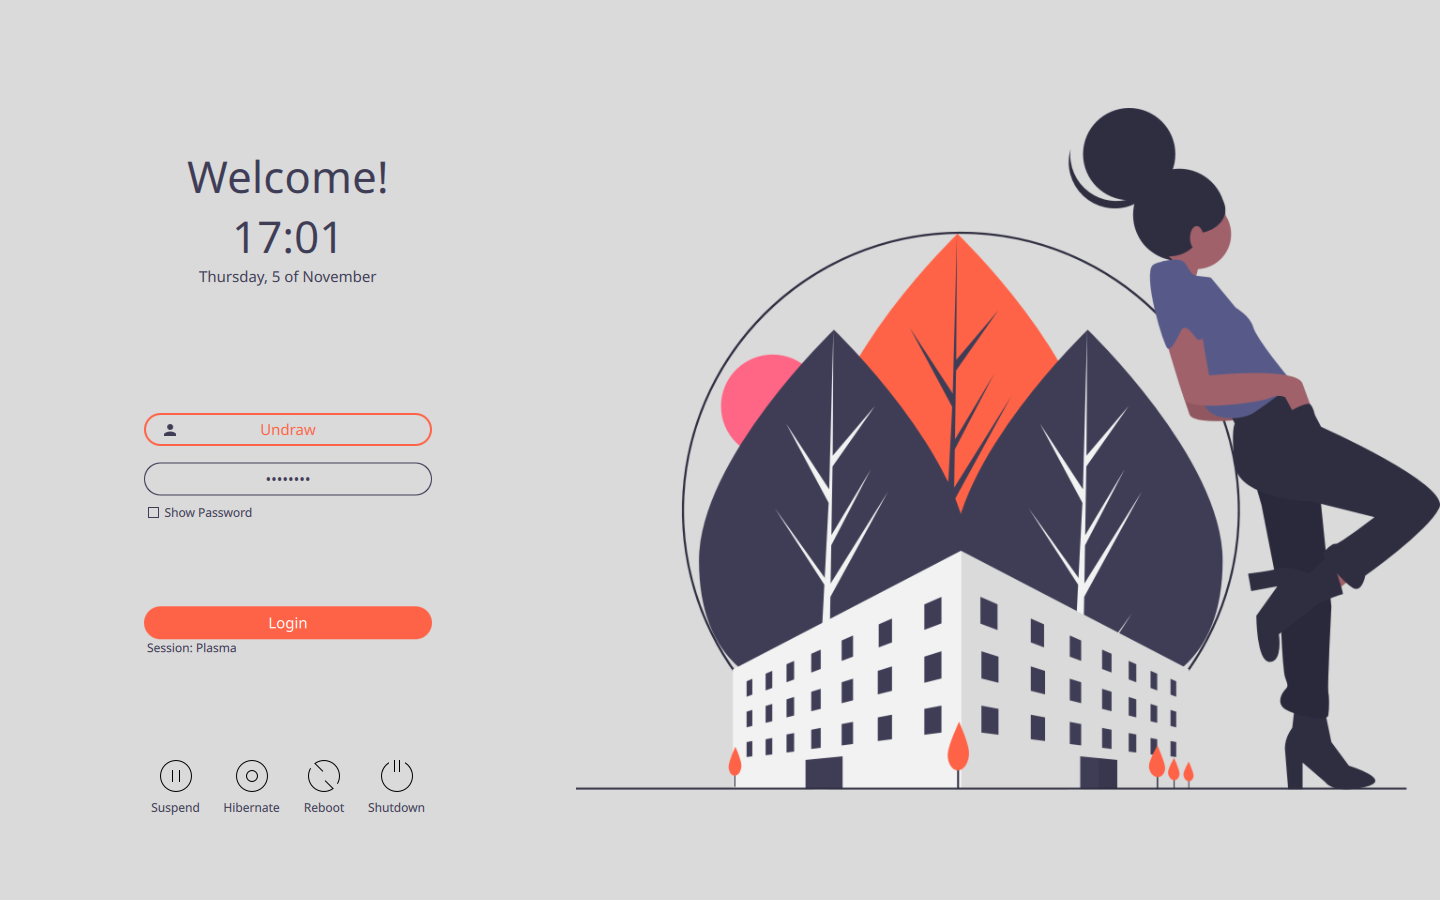
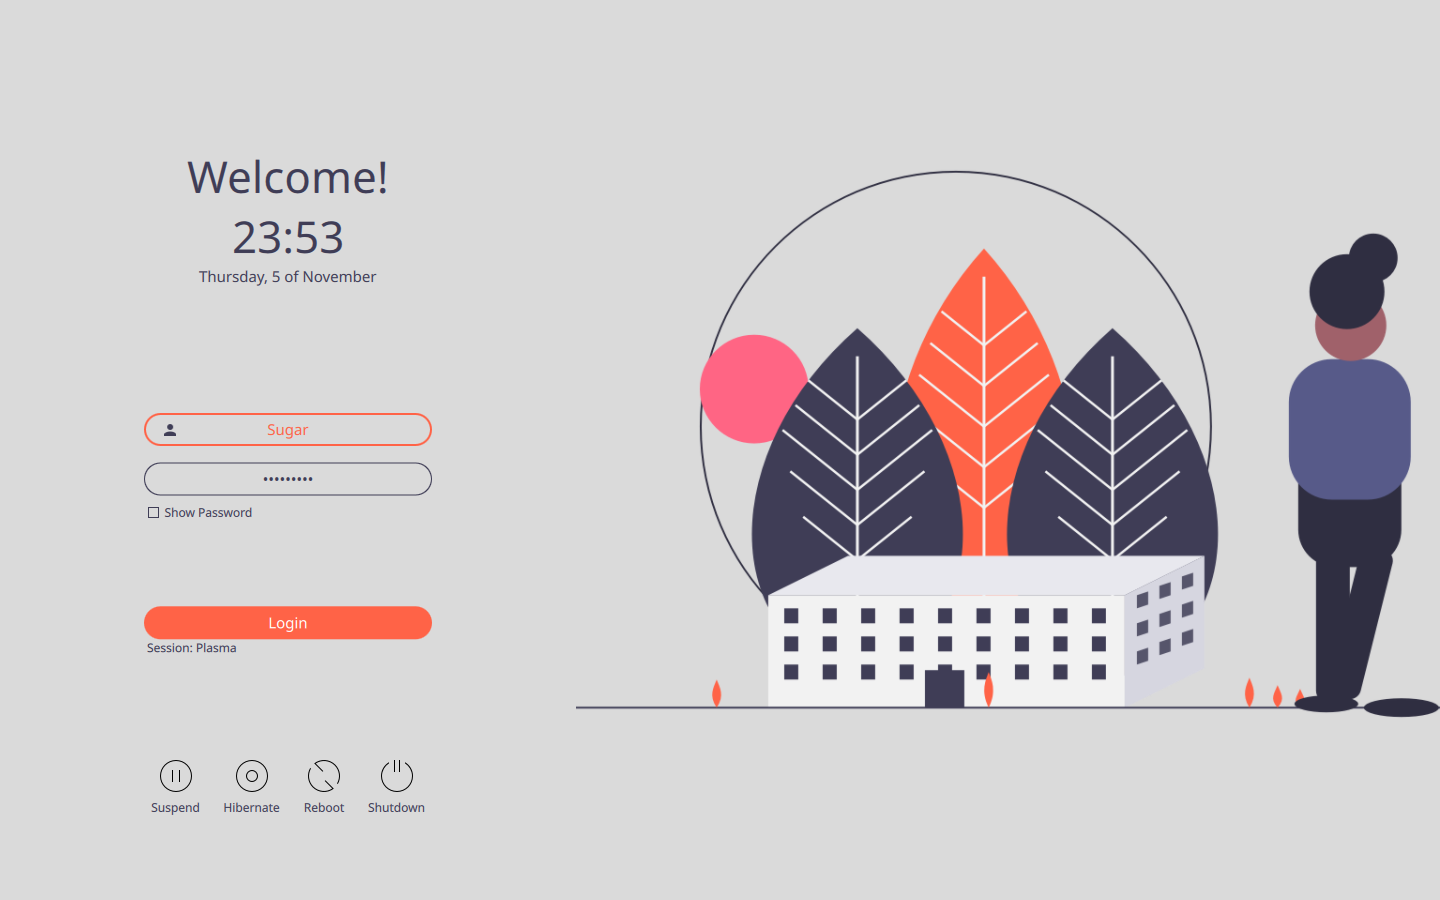
fix(assets): replace unclear-license assets with free ones
fix(assets): swap the background photographs for public domain and CC0 photos
- fix: Replace Colorful Dune, Dune, Desert and Mountain with Wikimedia Commons photos
- fix: Replace Rocks.jpg with a generated texture

fix(assets): replace third-party icon and illustration with original work
- fix: Redraw Assets/User.svgz
- fix: Replace Backgrounds/Undraw.svg with Backgrounds/Illustration.svg
- fix: Update the Illustration.svg references in README, theme.conf and presets

chore(credits): list the source and license of every asset
- chore: Rewrite CREDITS and add the changelog entry

chore(previews): re-render all eleven previews with the new assets
- chore: Show the neutral user name Sugar in the illustration previews

diff --git a/README.md b/README.md
@@ -68,13 +68,13 @@ The sugar series is **extremely customizable** by editing its included `theme.co
 And as if that wouldn't still be enough you can translate every single button and label because SDDM is still lacking behind with localization and clearly [needs your help](https://github.com/sddm/sddm/wiki/Localization)!
 
 **Background="Backgrounds/Mountain.jpg"**  
-*Path relative to the theme root directory. Most standard image file formats are allowed including support for transparency. (e.g. background.jpeg/illustration.GIF/Foto.png/undraw.svgz)*  
+*Path relative to the theme root directory. Most standard image file formats are allowed including support for transparency. (e.g. background.jpeg/illustration.GIF/Foto.png/illustration.svgz)*  
 
 **DimBackgroundImage="0.0"**  
 *Double between 0 and 1 used for the alpha channel of a darkening overlay. Use to darken your background image on the fly.*  
 
 **ScaleImageCropped="true"**  
-*Whether the image should be cropped when scaled proportionally. Setting this to false will fit the whole image instead, possibly leaving white space. This can be exploited beautifully with illustrations (try it with "undraw.svg" included in the theme).*  
+*Whether the image should be cropped when scaled proportionally. Setting this to false will fit the whole image instead, possibly leaving white space. This can be exploited beautifully with illustrations (try it with "Illustration.svg" included in the theme).*  
 
 **ScreenWidth="1440"**  
 **ScreenHeight="900"**  

diff --git a/CHANGELOG.md b/CHANGELOG.md
@@ -7,6 +7,7 @@
 - Renamed the previews `PartialBlur`, `ScreenPadding`, `ScaleImageCropped` and `ForceRightToLeft` to `PartialBlurLeft`, `ScreenPaddingLeft`, `ScaleImageCroppedLeft` and `ArabicLeft`, and added the matching right versions.
 
 ### Changed
+- Replaced every asset of unclear license. The background photographs are now public domain or CC0 photographs, and the user icon, the illustration (renamed from `Undraw.svg` to `Illustration.svg`) and `Rocks.jpg` are original work. All sources are listed in `CREDITS`.
 - **Breaking:** The theme now targets Qt6 and runs only in `sddm-greeter-qt6` (SDDM >= 0.21, Qt >= 6.5). `metadata.desktop` sets `QtVersion=6`.
 - Replaced `QtGraphicalEffects` with `QtQuick.Effects` (`MultiEffect`) for the background blur and the popup shadows. The blur and shadow values are calibrated to match the old look.
 - Switched all QML imports to the versionless Qt6 form.
